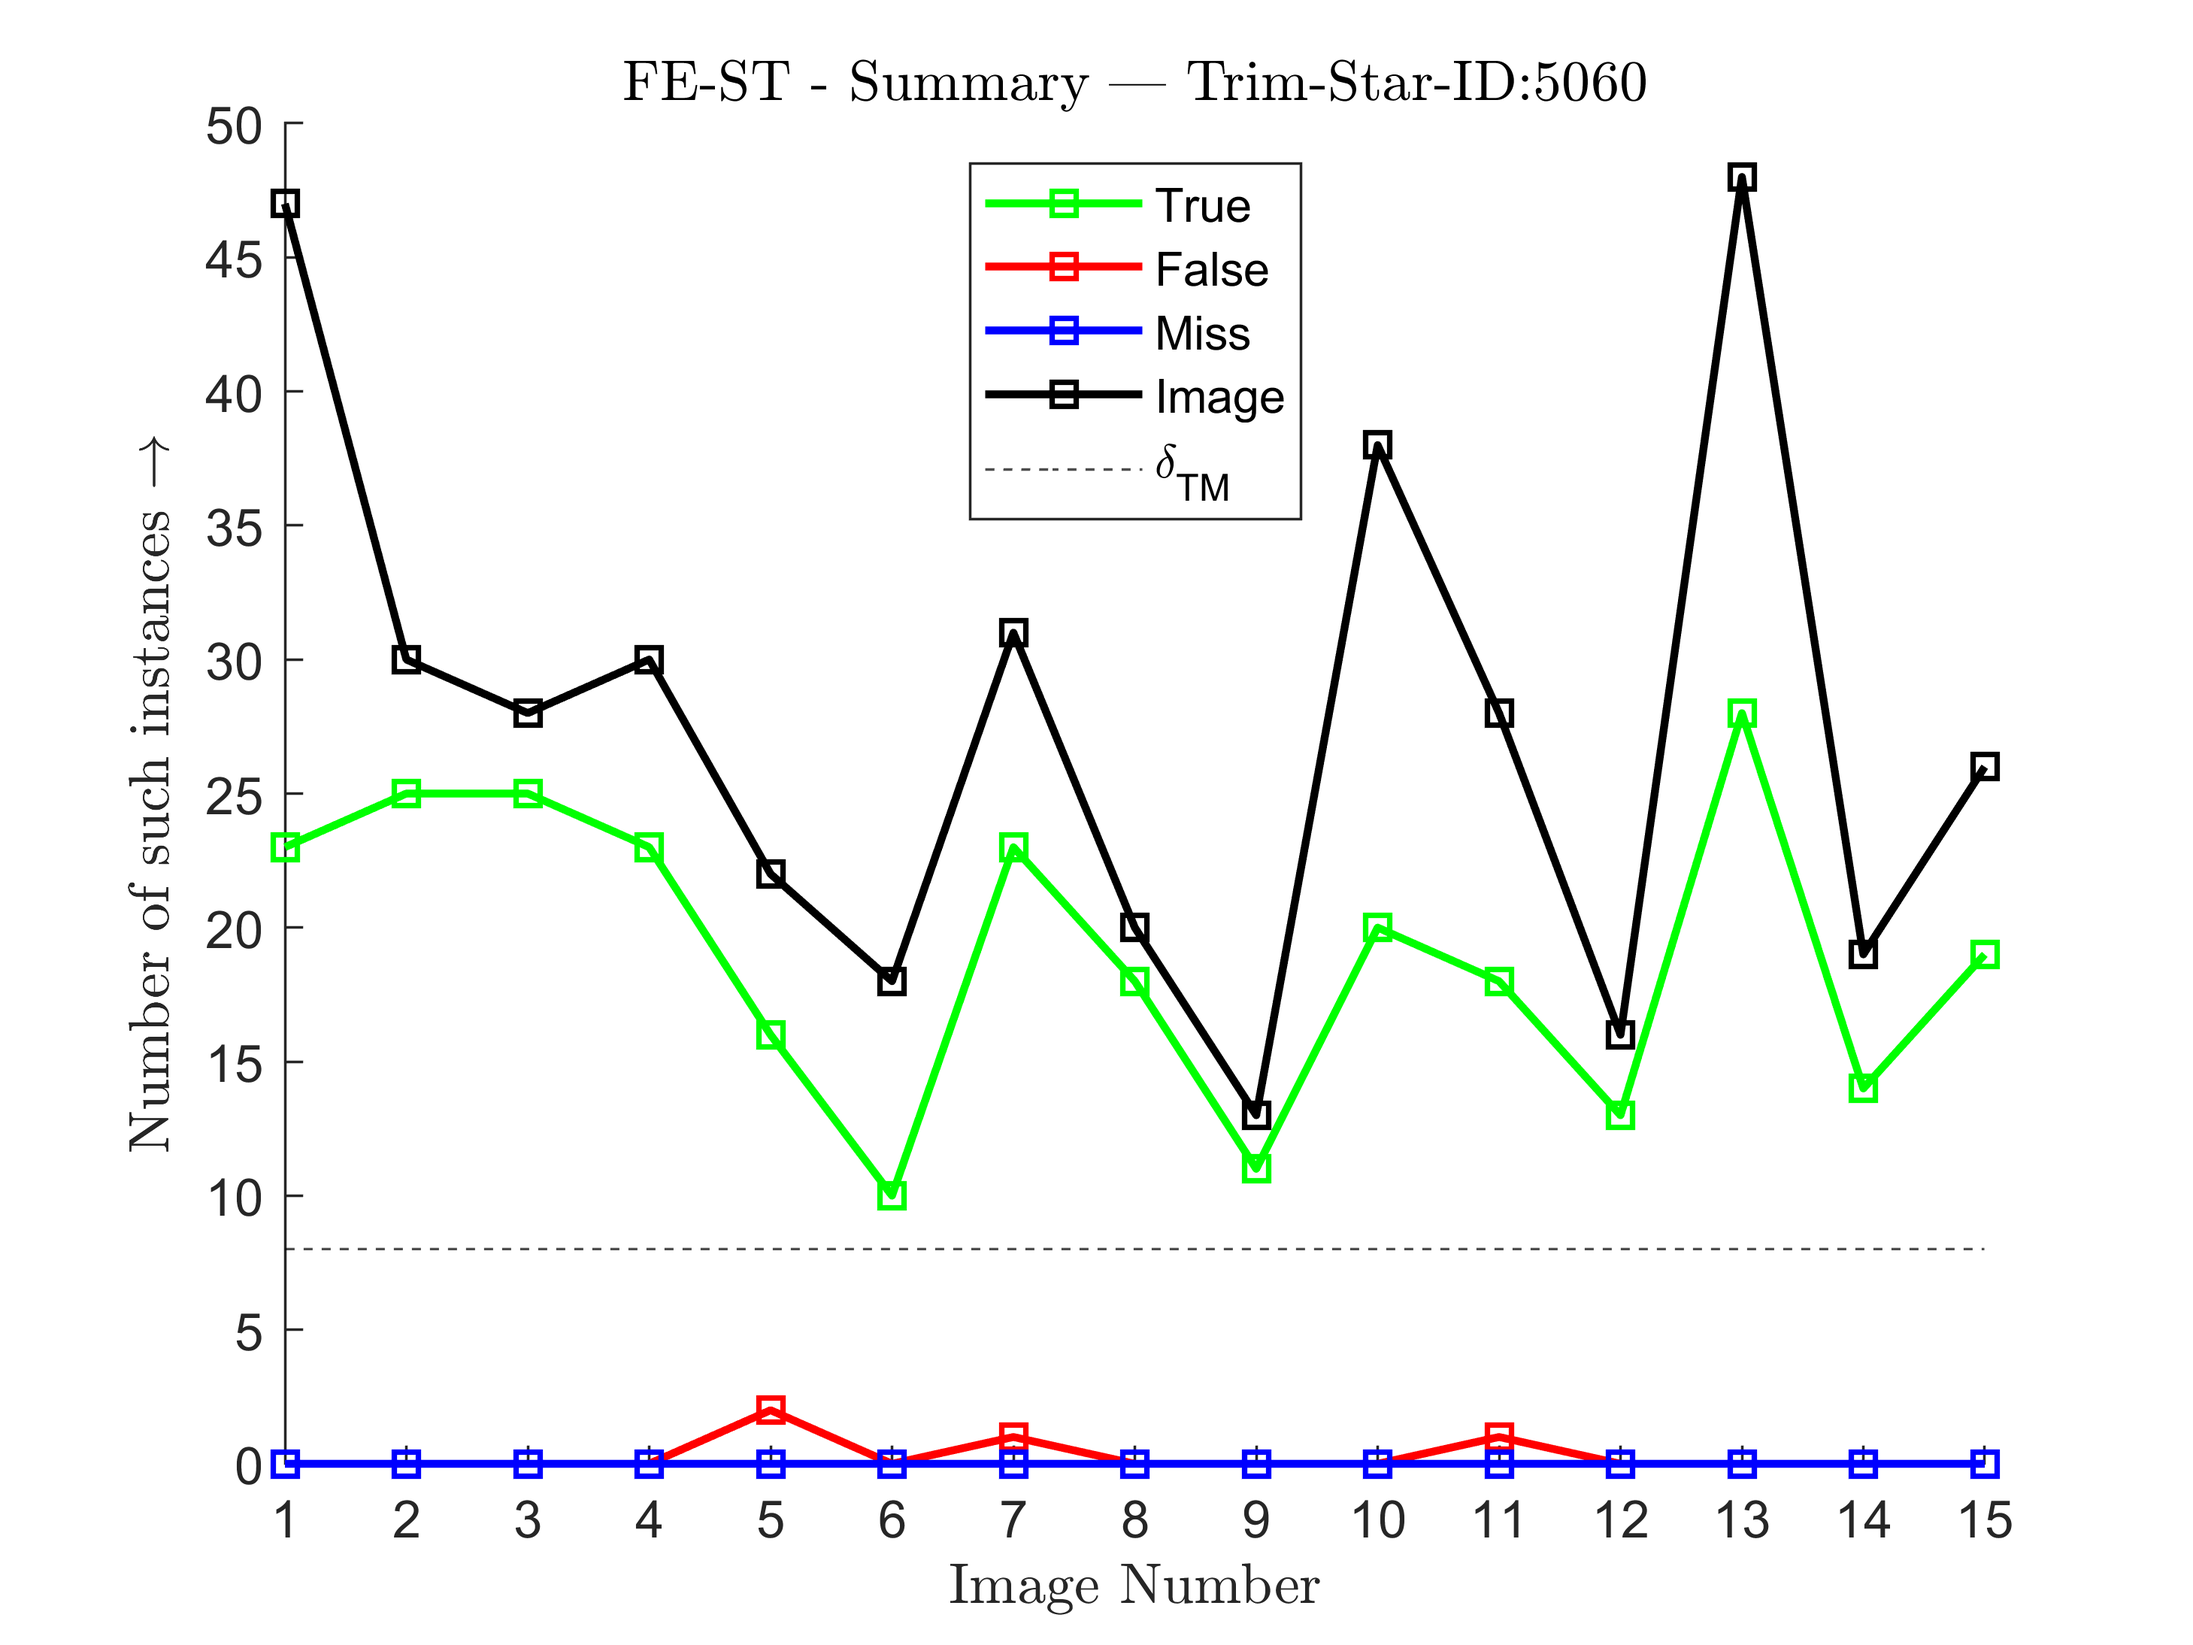
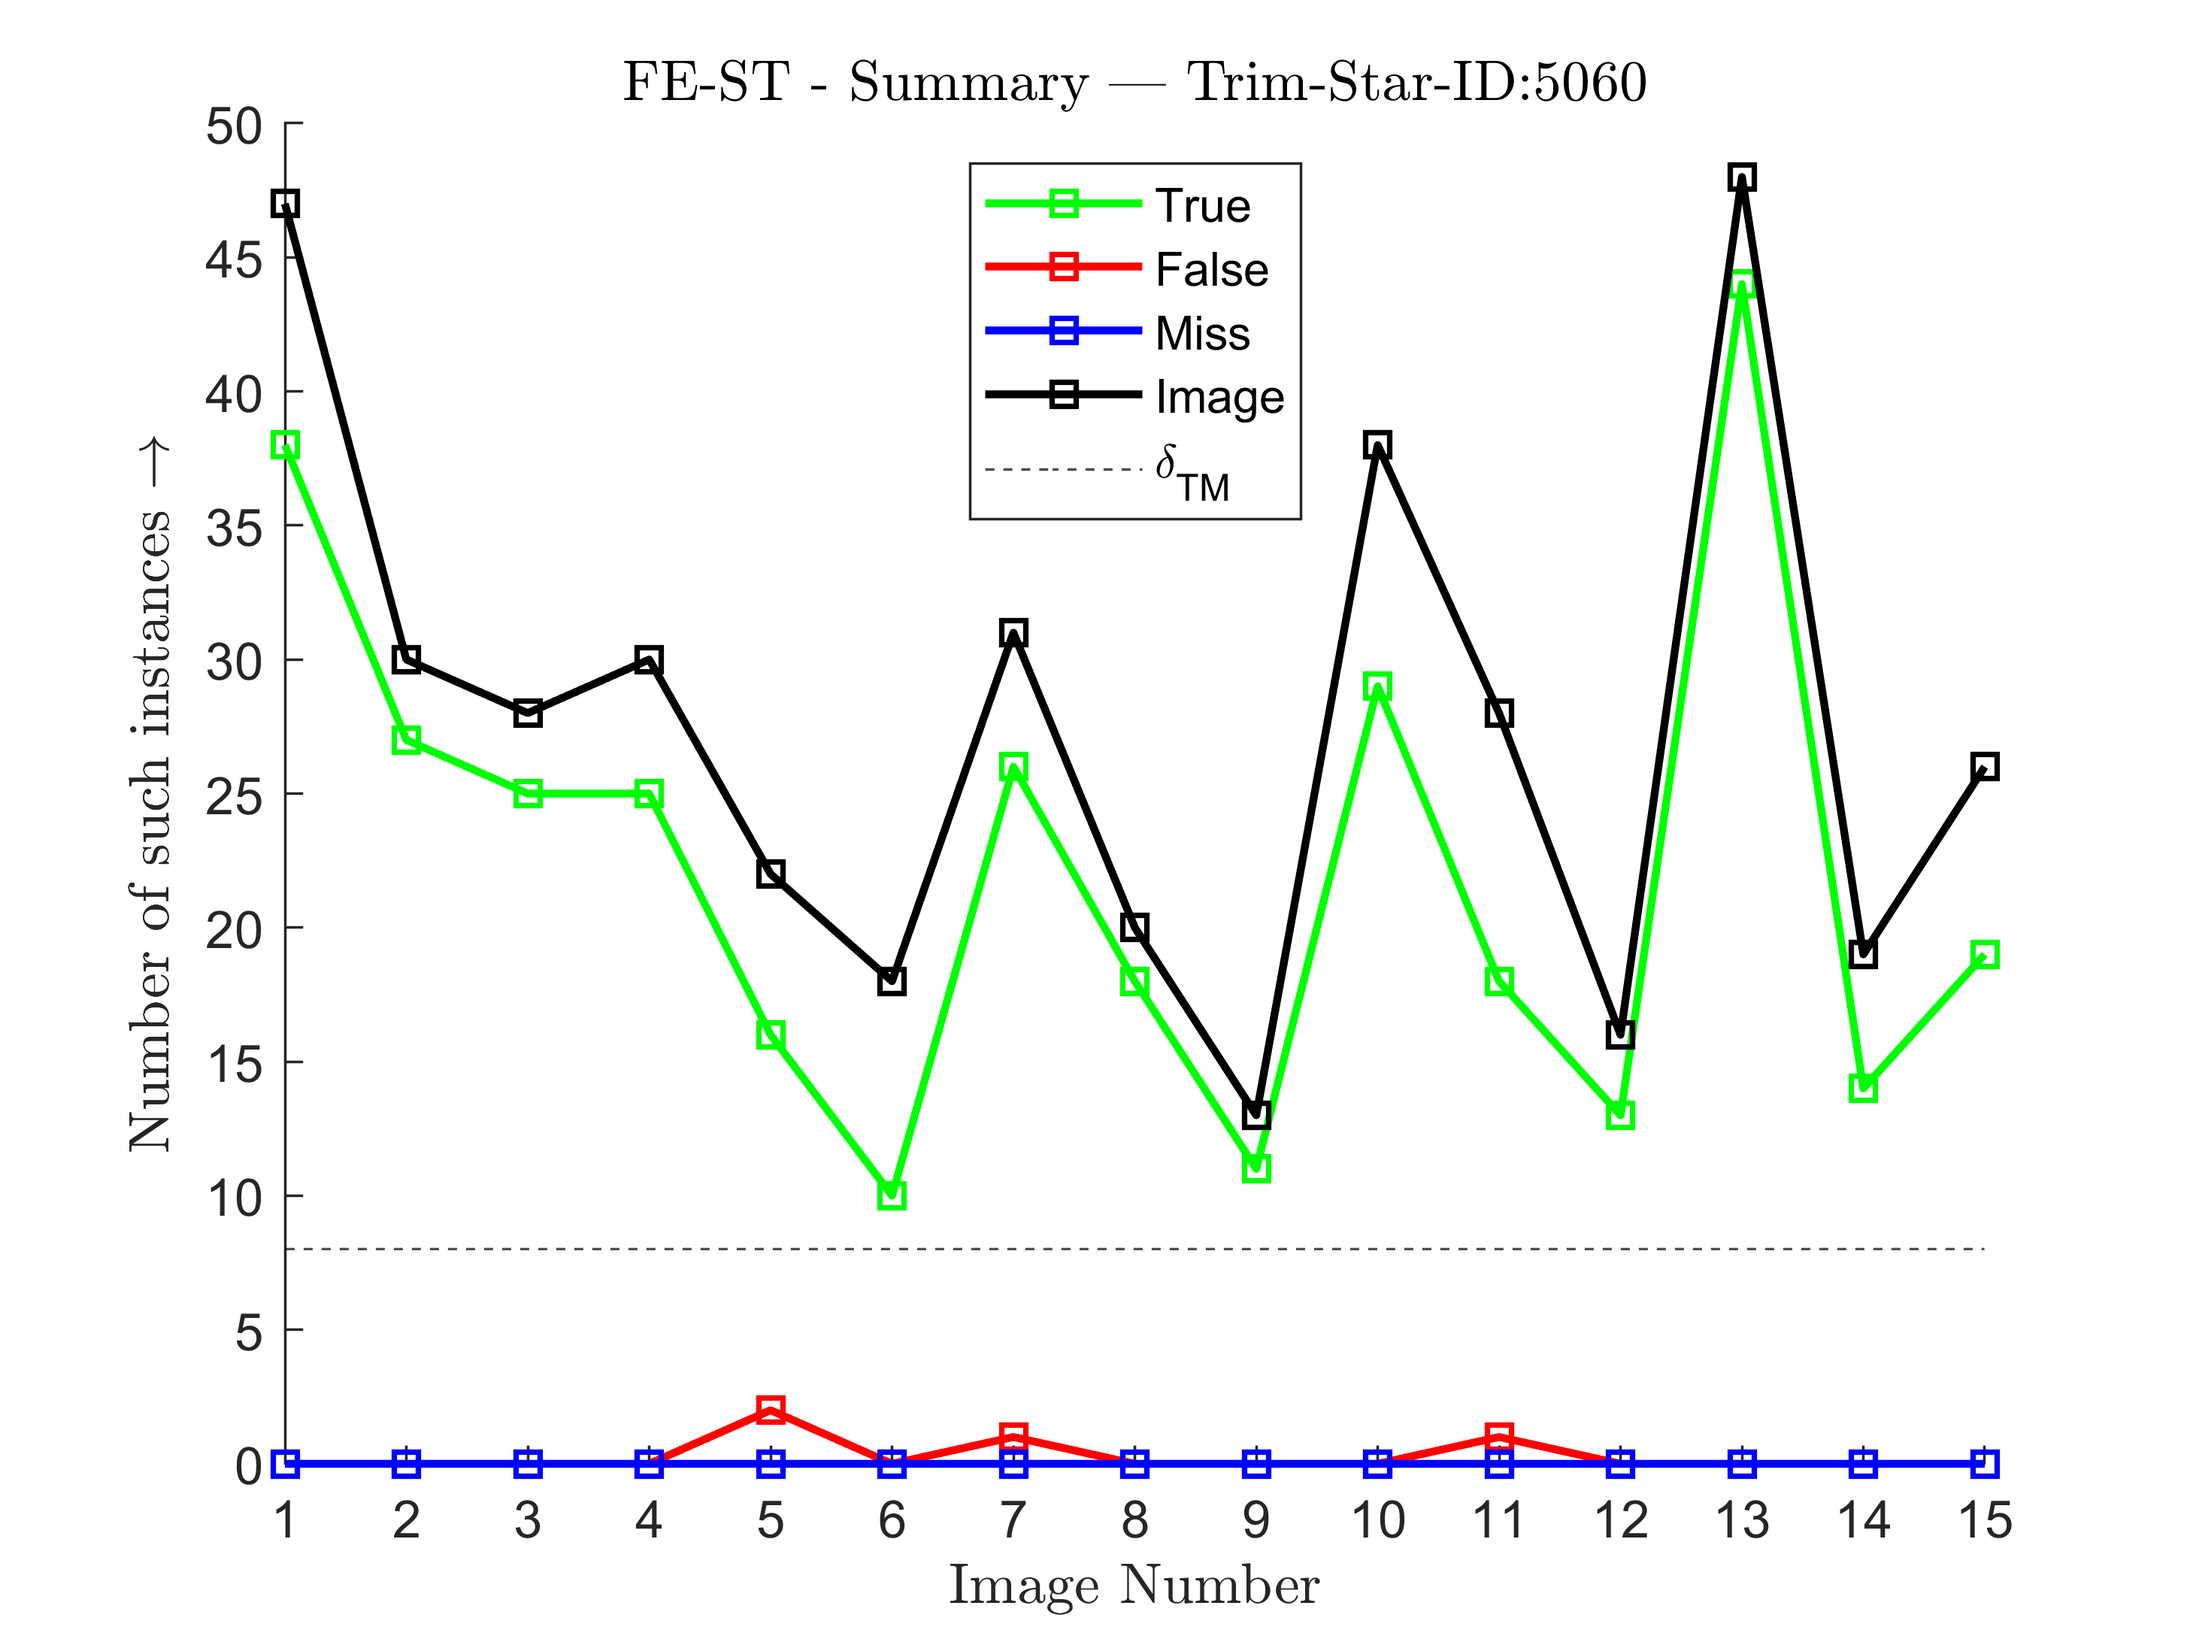
UPDATE - Plots - FE_ST_Check

diff --git a/Star_Matching/4_Star_Matching/MILS/ST_Testing/FE_ST_Check/st_check_FE_ST.m b/Star_Matching/4_Star_Matching/MILS/ST_Testing/FE_ST_Check/st_check_FE_ST.m
@@ -9,7 +9,7 @@ load('.\Star_Matching\4_Star_Matching\Preprocessing\Output\st_constants_4SM.mat'
 PIXEL_WIDTH = 4.8e-3;
 
 %% Modify Constants
-st_consts_4SM.es_N_EST = 25;
+st_consts_4SM.es_N_EST = 500;
 st_consts_4SM.st_DELTA = 8.6e-5;
 Trim_Star_ID = st_consts_4SM.st_n_GC;
 
